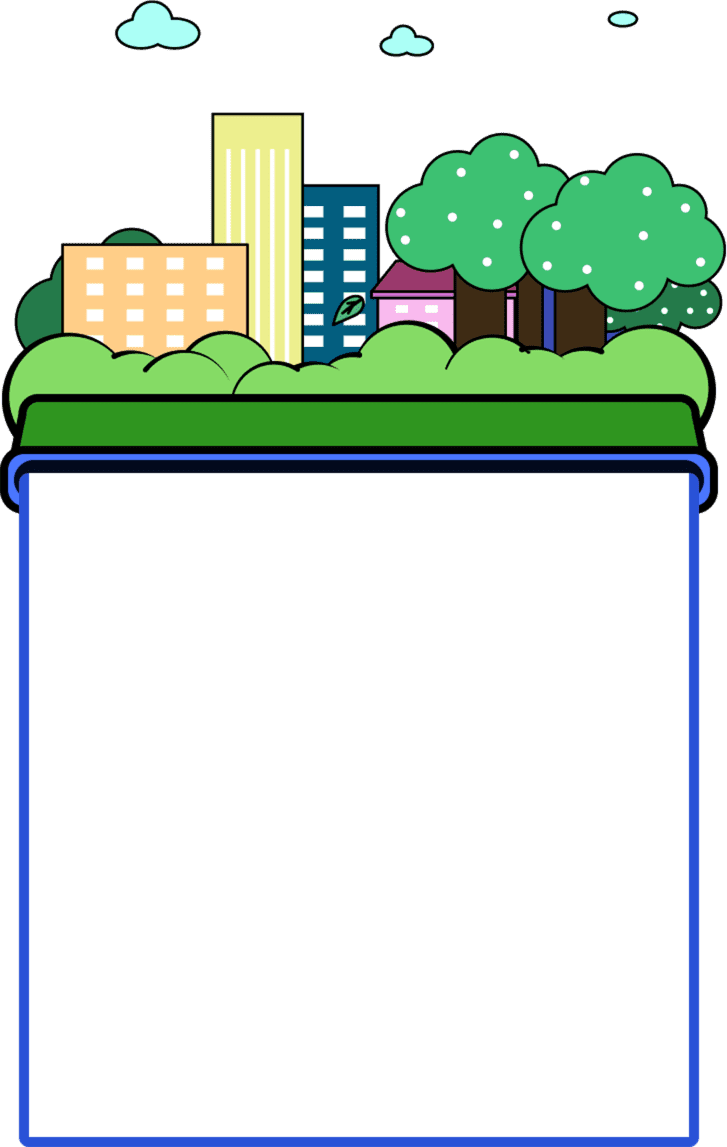
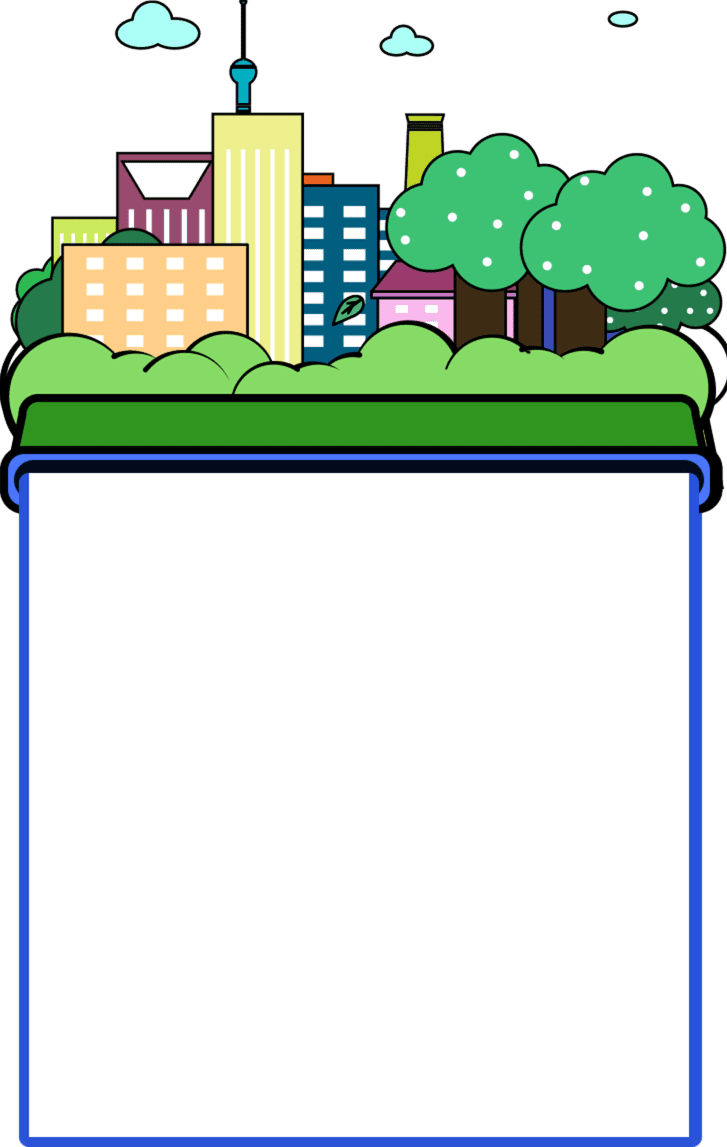
垃圾分类

diff --git a/game/GarbageSorting/src/view/Play.tsx b/game/GarbageSorting/src/view/Play.tsx
@@ -17,7 +17,8 @@ import {
   GARBAGE_LABEL,
   SHOUT_TIMER,
   ITEM_NAME,
-  ITEM_COST
+  ITEM_COST,
+  TOTAL_SCORE
 } from "../config";
 import Modal from "./components/Modal";
 import CircleProgress from "./components/CircleProgress";
@@ -408,7 +409,13 @@ export class Play extends Core.Play<
   };
 
   getTitleInfo = (score: number): { image: string; label: string } => {
-    return { image: IMG_ENV_GOOD, label: "环境健康" };
+    if (score > (TOTAL_SCORE / 3) * 2) {
+      return { image: IMG_ENV_GOOD, label: "环境健康" };
+    }
+    if (score < TOTAL_SCORE / 3) {
+      return { image: IMG_ENV_BAD, label: "环境污染" };
+    }
+    return { image: IMG_ENV_MID, label: "环境一般" };
   };
 
   renderResult = (resultStyle = {}) => {

diff --git a/game/GarbageSorting/src/config.ts b/game/GarbageSorting/src/config.ts
@@ -76,3 +76,4 @@ export const ITEMS = [
 
 export const SHOUT_TIMER = 10;
 export const ITEM_COST = 10;
+export const TOTAL_SCORE = 20 * 10 * 10;
